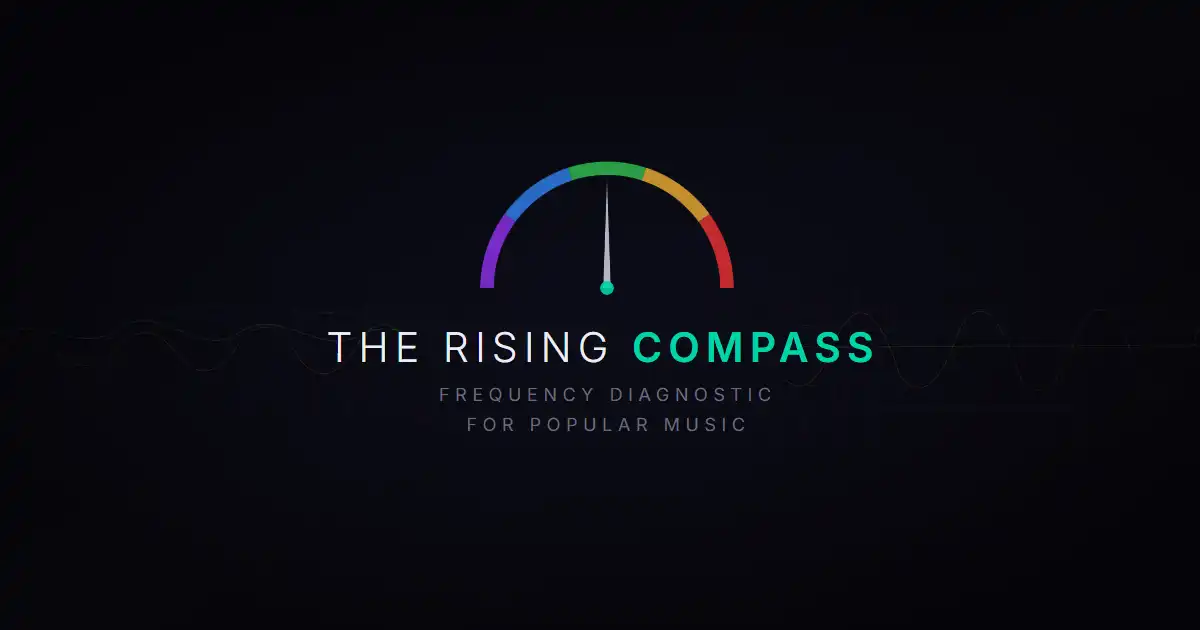
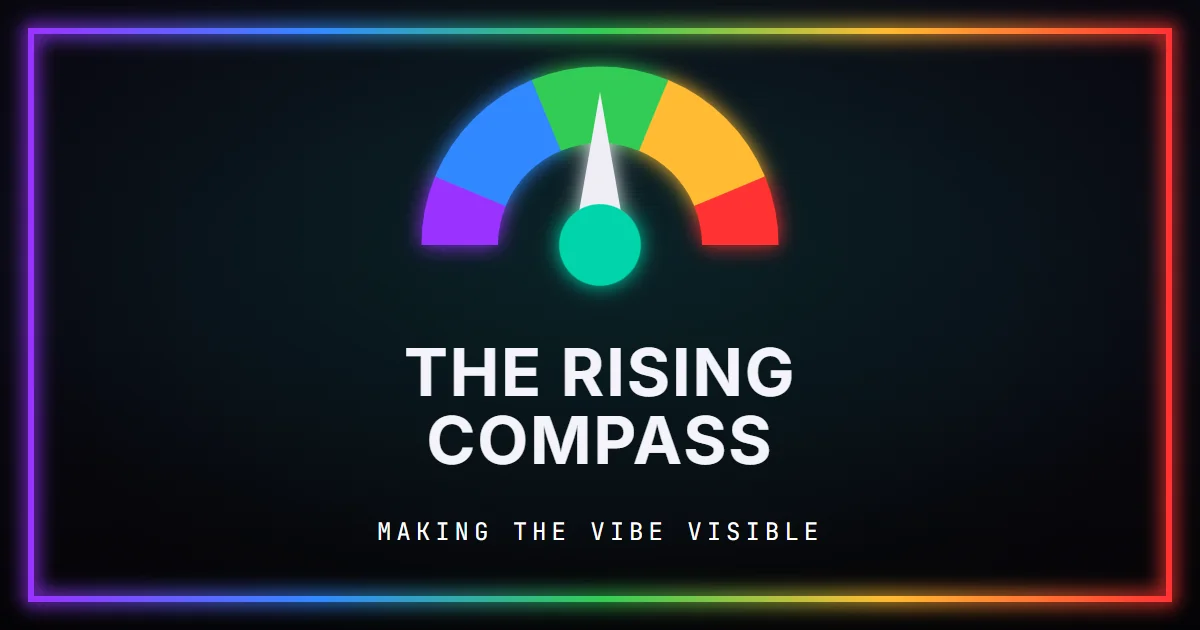
Reproportion compass badges to true tier bands
Update every decorative compass badge to the reproportioned tier bands
(narrow 22.5deg Ascended/Corrupted poles, 45deg middle tiers) so they
match the homepage dial and backend CHARGE_TIERS:

- header badge (partials/header.html), re-baked into all pages
- favicon.svg + raster favicons (favicon-48/192.png)
- song "not found" mark, lyrical-charger result badges, sitemap XSLT badge
- regenerate the OG share image: og-image.svg arcs + escape the
  Google-Fonts @import ampersands (invalid XML); rebuild
  rising-compass-og-image_web.webp

Proportions only -- colors, stroke width, viewBox, and needle unchanged.

diff --git a/frontend/songs/song.html b/frontend/songs/song.html
@@ -395,11 +395,11 @@
   <a href="/" class="rc-back-link" aria-label="Back to The Rising Compass">
     <svg width="20" height="20" viewBox="0 0 32 32" aria-hidden="true">
       <rect width="32" height="32" rx="6" fill="#0a0a14"/>
-      <path d="M 5,20 A 11,11 0 0,1 7.6,13.1" fill="none" stroke="#9933ff" stroke-width="6" stroke-linecap="butt"/>
-      <path d="M 7.6,13.1 A 11,11 0 0,1 12.6,9.6" fill="none" stroke="#3388ff" stroke-width="6" stroke-linecap="butt"/>
-      <path d="M 12.6,9.6 A 11,11 0 0,1 19.4,9.6" fill="none" stroke="#33cc55" stroke-width="6" stroke-linecap="butt"/>
-      <path d="M 19.4,9.6 A 11,11 0 0,1 24.4,13.1" fill="none" stroke="#ffbb33" stroke-width="6" stroke-linecap="butt"/>
-      <path d="M 24.4,13.1 A 11,11 0 0,1 27,20" fill="none" stroke="#ff3333" stroke-width="6" stroke-linecap="butt"/>
+      <path d="M 5,20 A 11,11 0 0,1 5.84,15.79" fill="none" stroke="#9933ff" stroke-width="6" stroke-linecap="butt"/>
+      <path d="M 5.84,15.79 A 11,11 0 0,1 11.79,9.84" fill="none" stroke="#3388ff" stroke-width="6" stroke-linecap="butt"/>
+      <path d="M 11.79,9.84 A 11,11 0 0,1 20.21,9.84" fill="none" stroke="#33cc55" stroke-width="6" stroke-linecap="butt"/>
+      <path d="M 20.21,9.84 A 11,11 0 0,1 26.16,15.79" fill="none" stroke="#ffbb33" stroke-width="6" stroke-linecap="butt"/>
+      <path d="M 26.16,15.79 A 11,11 0 0,1 27,20" fill="none" stroke="#ff3333" stroke-width="6" stroke-linecap="butt"/>
       <polygon points="16,10 14.2,20 17.8,20" fill="#eeeef4"/>
       <circle cx="16" cy="20" r="3" fill="#00d4aa"/>
     </svg>
@@ -685,11 +685,11 @@
     <div id="not-found" class="song-notfound" hidden>
       <svg class="song-notfound-mark" viewBox="0 0 32 32" aria-hidden="true">
         <rect width="32" height="32" rx="6" fill="#12121e"/>
-        <path d="M 5,20 A 11,11 0 0,1 7.6,13.1" fill="none" stroke="#3a3a55" stroke-width="6" stroke-linecap="butt"/>
-        <path d="M 7.6,13.1 A 11,11 0 0,1 12.6,9.6" fill="none" stroke="#3a3a55" stroke-width="6" stroke-linecap="butt"/>
-        <path d="M 12.6,9.6 A 11,11 0 0,1 19.4,9.6" fill="none" stroke="#3a3a55" stroke-width="6" stroke-linecap="butt"/>
-        <path d="M 19.4,9.6 A 11,11 0 0,1 24.4,13.1" fill="none" stroke="#3a3a55" stroke-width="6" stroke-linecap="butt"/>
-        <path d="M 24.4,13.1 A 11,11 0 0,1 27,20" fill="none" stroke="#3a3a55" stroke-width="6" stroke-linecap="butt"/>
+        <path d="M 5,20 A 11,11 0 0,1 5.84,15.79" fill="none" stroke="#3a3a55" stroke-width="6" stroke-linecap="butt"/>
+        <path d="M 5.84,15.79 A 11,11 0 0,1 11.79,9.84" fill="none" stroke="#3a3a55" stroke-width="6" stroke-linecap="butt"/>
+        <path d="M 11.79,9.84 A 11,11 0 0,1 20.21,9.84" fill="none" stroke="#3a3a55" stroke-width="6" stroke-linecap="butt"/>
+        <path d="M 20.21,9.84 A 11,11 0 0,1 26.16,15.79" fill="none" stroke="#3a3a55" stroke-width="6" stroke-linecap="butt"/>
+        <path d="M 26.16,15.79 A 11,11 0 0,1 27,20" fill="none" stroke="#3a3a55" stroke-width="6" stroke-linecap="butt"/>
         <polygon points="16,21 14.2,11 17.8,11" fill="#646490"/>
         <circle cx="16" cy="20" r="3" fill="#646490"/>
       </svg>

diff --git a/frontend/lyrical-charger/charger.js b/frontend/lyrical-charger/charger.js
@@ -1119,11 +1119,11 @@ function renderResults(data) {
     <span class="result-compass-badge" aria-hidden="true">
       <svg viewBox="0 0 32 32" width="48" height="48">
         <rect width="32" height="32" rx="6" fill="#0a0a14"/>
-        <path d="M 5,20 A 11,11 0 0,1 7.6,13.1" fill="none" stroke="#9933ff" stroke-width="6" stroke-linecap="butt"/>
-        <path d="M 7.6,13.1 A 11,11 0 0,1 12.6,9.6" fill="none" stroke="#3388ff" stroke-width="6" stroke-linecap="butt"/>
-        <path d="M 12.6,9.6 A 11,11 0 0,1 19.4,9.6" fill="none" stroke="#33cc55" stroke-width="6" stroke-linecap="butt"/>
-        <path d="M 19.4,9.6 A 11,11 0 0,1 24.4,13.1" fill="none" stroke="#ffbb33" stroke-width="6" stroke-linecap="butt"/>
-        <path d="M 24.4,13.1 A 11,11 0 0,1 27,20" fill="none" stroke="#ff3333" stroke-width="6" stroke-linecap="butt"/>
+        <path d="M 5,20 A 11,11 0 0,1 5.84,15.79" fill="none" stroke="#9933ff" stroke-width="6" stroke-linecap="butt"/>
+        <path d="M 5.84,15.79 A 11,11 0 0,1 11.79,9.84" fill="none" stroke="#3388ff" stroke-width="6" stroke-linecap="butt"/>
+        <path d="M 11.79,9.84 A 11,11 0 0,1 20.21,9.84" fill="none" stroke="#33cc55" stroke-width="6" stroke-linecap="butt"/>
+        <path d="M 20.21,9.84 A 11,11 0 0,1 26.16,15.79" fill="none" stroke="#ffbb33" stroke-width="6" stroke-linecap="butt"/>
+        <path d="M 26.16,15.79 A 11,11 0 0,1 27,20" fill="none" stroke="#ff3333" stroke-width="6" stroke-linecap="butt"/>
         <polygon points="16,10 14.2,20 17.8,20" fill="#eeeef4"/>
         <circle cx="16" cy="20" r="3" fill="#00d4aa"/>
       </svg>
@@ -1428,11 +1428,11 @@ function hideError() {
   const COMPASS_BADGE_SVG = `
     <svg viewBox="0 0 32 32" width="48" height="48">
       <rect width="32" height="32" rx="6" fill="#0a0a14"/>
-      <path d="M 5,20 A 11,11 0 0,1 7.6,13.1" fill="none" stroke="#9933ff" stroke-width="6" stroke-linecap="butt"/>
-      <path d="M 7.6,13.1 A 11,11 0 0,1 12.6,9.6" fill="none" stroke="#3388ff" stroke-width="6" stroke-linecap="butt"/>
-      <path d="M 12.6,9.6 A 11,11 0 0,1 19.4,9.6" fill="none" stroke="#33cc55" stroke-width="6" stroke-linecap="butt"/>
-      <path d="M 19.4,9.6 A 11,11 0 0,1 24.4,13.1" fill="none" stroke="#ffbb33" stroke-width="6" stroke-linecap="butt"/>
-      <path d="M 24.4,13.1 A 11,11 0 0,1 27,20" fill="none" stroke="#ff3333" stroke-width="6" stroke-linecap="butt"/>
+      <path d="M 5,20 A 11,11 0 0,1 5.84,15.79" fill="none" stroke="#9933ff" stroke-width="6" stroke-linecap="butt"/>
+      <path d="M 5.84,15.79 A 11,11 0 0,1 11.79,9.84" fill="none" stroke="#3388ff" stroke-width="6" stroke-linecap="butt"/>
+      <path d="M 11.79,9.84 A 11,11 0 0,1 20.21,9.84" fill="none" stroke="#33cc55" stroke-width="6" stroke-linecap="butt"/>
+      <path d="M 20.21,9.84 A 11,11 0 0,1 26.16,15.79" fill="none" stroke="#ffbb33" stroke-width="6" stroke-linecap="butt"/>
+      <path d="M 26.16,15.79 A 11,11 0 0,1 27,20" fill="none" stroke="#ff3333" stroke-width="6" stroke-linecap="butt"/>
       <polygon points="16,10 14.2,20 17.8,20" fill="#eeeef4"/>
       <circle cx="16" cy="20" r="3" fill="#00d4aa"/>
     </svg>`;

diff --git a/frontend/amendments/index.html b/frontend/amendments/index.html
@@ -107,11 +107,11 @@
   <a href="/" class="rc-back-link" aria-label="Back to The Rising Compass">
     <svg width="20" height="20" viewBox="0 0 32 32" aria-hidden="true">
       <rect width="32" height="32" rx="6" fill="#0a0a14"/>
-      <path d="M 5,20 A 11,11 0 0,1 7.6,13.1" fill="none" stroke="#9933ff" stroke-width="6" stroke-linecap="butt"/>
-      <path d="M 7.6,13.1 A 11,11 0 0,1 12.6,9.6" fill="none" stroke="#3388ff" stroke-width="6" stroke-linecap="butt"/>
-      <path d="M 12.6,9.6 A 11,11 0 0,1 19.4,9.6" fill="none" stroke="#33cc55" stroke-width="6" stroke-linecap="butt"/>
-      <path d="M 19.4,9.6 A 11,11 0 0,1 24.4,13.1" fill="none" stroke="#ffbb33" stroke-width="6" stroke-linecap="butt"/>
-      <path d="M 24.4,13.1 A 11,11 0 0,1 27,20" fill="none" stroke="#ff3333" stroke-width="6" stroke-linecap="butt"/>
+      <path d="M 5,20 A 11,11 0 0,1 5.84,15.79" fill="none" stroke="#9933ff" stroke-width="6" stroke-linecap="butt"/>
+      <path d="M 5.84,15.79 A 11,11 0 0,1 11.79,9.84" fill="none" stroke="#3388ff" stroke-width="6" stroke-linecap="butt"/>
+      <path d="M 11.79,9.84 A 11,11 0 0,1 20.21,9.84" fill="none" stroke="#33cc55" stroke-width="6" stroke-linecap="butt"/>
+      <path d="M 20.21,9.84 A 11,11 0 0,1 26.16,15.79" fill="none" stroke="#ffbb33" stroke-width="6" stroke-linecap="butt"/>
+      <path d="M 26.16,15.79 A 11,11 0 0,1 27,20" fill="none" stroke="#ff3333" stroke-width="6" stroke-linecap="butt"/>
       <polygon points="16,10 14.2,20 17.8,20" fill="#eeeef4"/>
       <circle cx="16" cy="20" r="3" fill="#00d4aa"/>
     </svg>

diff --git a/frontend/artist-claim.html b/frontend/artist-claim.html
@@ -250,11 +250,11 @@
   <a href="/" class="rc-back-link" aria-label="Back to The Rising Compass">
     <svg width="20" height="20" viewBox="0 0 32 32" aria-hidden="true">
       <rect width="32" height="32" rx="6" fill="#0a0a14"/>
-      <path d="M 5,20 A 11,11 0 0,1 7.6,13.1" fill="none" stroke="#9933ff" stroke-width="6" stroke-linecap="butt"/>
-      <path d="M 7.6,13.1 A 11,11 0 0,1 12.6,9.6" fill="none" stroke="#3388ff" stroke-width="6" stroke-linecap="butt"/>
-      <path d="M 12.6,9.6 A 11,11 0 0,1 19.4,9.6" fill="none" stroke="#33cc55" stroke-width="6" stroke-linecap="butt"/>
-      <path d="M 19.4,9.6 A 11,11 0 0,1 24.4,13.1" fill="none" stroke="#ffbb33" stroke-width="6" stroke-linecap="butt"/>
-      <path d="M 24.4,13.1 A 11,11 0 0,1 27,20" fill="none" stroke="#ff3333" stroke-width="6" stroke-linecap="butt"/>
+      <path d="M 5,20 A 11,11 0 0,1 5.84,15.79" fill="none" stroke="#9933ff" stroke-width="6" stroke-linecap="butt"/>
+      <path d="M 5.84,15.79 A 11,11 0 0,1 11.79,9.84" fill="none" stroke="#3388ff" stroke-width="6" stroke-linecap="butt"/>
+      <path d="M 11.79,9.84 A 11,11 0 0,1 20.21,9.84" fill="none" stroke="#33cc55" stroke-width="6" stroke-linecap="butt"/>
+      <path d="M 20.21,9.84 A 11,11 0 0,1 26.16,15.79" fill="none" stroke="#ffbb33" stroke-width="6" stroke-linecap="butt"/>
+      <path d="M 26.16,15.79 A 11,11 0 0,1 27,20" fill="none" stroke="#ff3333" stroke-width="6" stroke-linecap="butt"/>
       <polygon points="16,10 14.2,20 17.8,20" fill="#eeeef4"/>
       <circle cx="16" cy="20" r="3" fill="#00d4aa"/>
     </svg>

diff --git a/frontend/ether-art-chart/index.html b/frontend/ether-art-chart/index.html
@@ -107,11 +107,11 @@
   <a href="/" class="rc-back-link" aria-label="Back to The Rising Compass">
     <svg width="20" height="20" viewBox="0 0 32 32" aria-hidden="true">
       <rect width="32" height="32" rx="6" fill="#0a0a14"/>
-      <path d="M 5,20 A 11,11 0 0,1 7.6,13.1" fill="none" stroke="#9933ff" stroke-width="6" stroke-linecap="butt"/>
-      <path d="M 7.6,13.1 A 11,11 0 0,1 12.6,9.6" fill="none" stroke="#3388ff" stroke-width="6" stroke-linecap="butt"/>
-      <path d="M 12.6,9.6 A 11,11 0 0,1 19.4,9.6" fill="none" stroke="#33cc55" stroke-width="6" stroke-linecap="butt"/>
-      <path d="M 19.4,9.6 A 11,11 0 0,1 24.4,13.1" fill="none" stroke="#ffbb33" stroke-width="6" stroke-linecap="butt"/>
-      <path d="M 24.4,13.1 A 11,11 0 0,1 27,20" fill="none" stroke="#ff3333" stroke-width="6" stroke-linecap="butt"/>
+      <path d="M 5,20 A 11,11 0 0,1 5.84,15.79" fill="none" stroke="#9933ff" stroke-width="6" stroke-linecap="butt"/>
+      <path d="M 5.84,15.79 A 11,11 0 0,1 11.79,9.84" fill="none" stroke="#3388ff" stroke-width="6" stroke-linecap="butt"/>
+      <path d="M 11.79,9.84 A 11,11 0 0,1 20.21,9.84" fill="none" stroke="#33cc55" stroke-width="6" stroke-linecap="butt"/>
+      <path d="M 20.21,9.84 A 11,11 0 0,1 26.16,15.79" fill="none" stroke="#ffbb33" stroke-width="6" stroke-linecap="butt"/>
+      <path d="M 26.16,15.79 A 11,11 0 0,1 27,20" fill="none" stroke="#ff3333" stroke-width="6" stroke-linecap="butt"/>
       <polygon points="16,10 14.2,20 17.8,20" fill="#eeeef4"/>
       <circle cx="16" cy="20" r="3" fill="#00d4aa"/>
     </svg>

diff --git a/frontend/fair-use.html b/frontend/fair-use.html
@@ -138,11 +138,11 @@
   <a href="/" class="rc-back-link" aria-label="Back to The Rising Compass">
     <svg width="20" height="20" viewBox="0 0 32 32" aria-hidden="true">
       <rect width="32" height="32" rx="6" fill="#0a0a14"/>
-      <path d="M 5,20 A 11,11 0 0,1 7.6,13.1" fill="none" stroke="#9933ff" stroke-width="6" stroke-linecap="butt"/>
-      <path d="M 7.6,13.1 A 11,11 0 0,1 12.6,9.6" fill="none" stroke="#3388ff" stroke-width="6" stroke-linecap="butt"/>
-      <path d="M 12.6,9.6 A 11,11 0 0,1 19.4,9.6" fill="none" stroke="#33cc55" stroke-width="6" stroke-linecap="butt"/>
-      <path d="M 19.4,9.6 A 11,11 0 0,1 24.4,13.1" fill="none" stroke="#ffbb33" stroke-width="6" stroke-linecap="butt"/>
-      <path d="M 24.4,13.1 A 11,11 0 0,1 27,20" fill="none" stroke="#ff3333" stroke-width="6" stroke-linecap="butt"/>
+      <path d="M 5,20 A 11,11 0 0,1 5.84,15.79" fill="none" stroke="#9933ff" stroke-width="6" stroke-linecap="butt"/>
+      <path d="M 5.84,15.79 A 11,11 0 0,1 11.79,9.84" fill="none" stroke="#3388ff" stroke-width="6" stroke-linecap="butt"/>
+      <path d="M 11.79,9.84 A 11,11 0 0,1 20.21,9.84" fill="none" stroke="#33cc55" stroke-width="6" stroke-linecap="butt"/>
+      <path d="M 20.21,9.84 A 11,11 0 0,1 26.16,15.79" fill="none" stroke="#ffbb33" stroke-width="6" stroke-linecap="butt"/>
+      <path d="M 26.16,15.79 A 11,11 0 0,1 27,20" fill="none" stroke="#ff3333" stroke-width="6" stroke-linecap="butt"/>
       <polygon points="16,10 14.2,20 17.8,20" fill="#eeeef4"/>
       <circle cx="16" cy="20" r="3" fill="#00d4aa"/>
     </svg>

diff --git a/frontend/index.html b/frontend/index.html
@@ -300,11 +300,11 @@
   <a href="/" class="rc-back-link" aria-label="Back to The Rising Compass">
     <svg width="20" height="20" viewBox="0 0 32 32" aria-hidden="true">
       <rect width="32" height="32" rx="6" fill="#0a0a14"/>
-      <path d="M 5,20 A 11,11 0 0,1 7.6,13.1" fill="none" stroke="#9933ff" stroke-width="6" stroke-linecap="butt"/>
-      <path d="M 7.6,13.1 A 11,11 0 0,1 12.6,9.6" fill="none" stroke="#3388ff" stroke-width="6" stroke-linecap="butt"/>
-      <path d="M 12.6,9.6 A 11,11 0 0,1 19.4,9.6" fill="none" stroke="#33cc55" stroke-width="6" stroke-linecap="butt"/>
-      <path d="M 19.4,9.6 A 11,11 0 0,1 24.4,13.1" fill="none" stroke="#ffbb33" stroke-width="6" stroke-linecap="butt"/>
-      <path d="M 24.4,13.1 A 11,11 0 0,1 27,20" fill="none" stroke="#ff3333" stroke-width="6" stroke-linecap="butt"/>
+      <path d="M 5,20 A 11,11 0 0,1 5.84,15.79" fill="none" stroke="#9933ff" stroke-width="6" stroke-linecap="butt"/>
+      <path d="M 5.84,15.79 A 11,11 0 0,1 11.79,9.84" fill="none" stroke="#3388ff" stroke-width="6" stroke-linecap="butt"/>
+      <path d="M 11.79,9.84 A 11,11 0 0,1 20.21,9.84" fill="none" stroke="#33cc55" stroke-width="6" stroke-linecap="butt"/>
+      <path d="M 20.21,9.84 A 11,11 0 0,1 26.16,15.79" fill="none" stroke="#ffbb33" stroke-width="6" stroke-linecap="butt"/>
+      <path d="M 26.16,15.79 A 11,11 0 0,1 27,20" fill="none" stroke="#ff3333" stroke-width="6" stroke-linecap="butt"/>
       <polygon points="16,10 14.2,20 17.8,20" fill="#eeeef4"/>
       <circle cx="16" cy="20" r="3" fill="#00d4aa"/>
     </svg>

diff --git a/frontend/inquiry.html b/frontend/inquiry.html
@@ -153,11 +153,11 @@
   <a href="/" class="rc-back-link" aria-label="Back to The Rising Compass">
     <svg width="20" height="20" viewBox="0 0 32 32" aria-hidden="true">
       <rect width="32" height="32" rx="6" fill="#0a0a14"/>
-      <path d="M 5,20 A 11,11 0 0,1 7.6,13.1" fill="none" stroke="#9933ff" stroke-width="6" stroke-linecap="butt"/>
-      <path d="M 7.6,13.1 A 11,11 0 0,1 12.6,9.6" fill="none" stroke="#3388ff" stroke-width="6" stroke-linecap="butt"/>
-      <path d="M 12.6,9.6 A 11,11 0 0,1 19.4,9.6" fill="none" stroke="#33cc55" stroke-width="6" stroke-linecap="butt"/>
-      <path d="M 19.4,9.6 A 11,11 0 0,1 24.4,13.1" fill="none" stroke="#ffbb33" stroke-width="6" stroke-linecap="butt"/>
-      <path d="M 24.4,13.1 A 11,11 0 0,1 27,20" fill="none" stroke="#ff3333" stroke-width="6" stroke-linecap="butt"/>
+      <path d="M 5,20 A 11,11 0 0,1 5.84,15.79" fill="none" stroke="#9933ff" stroke-width="6" stroke-linecap="butt"/>
+      <path d="M 5.84,15.79 A 11,11 0 0,1 11.79,9.84" fill="none" stroke="#3388ff" stroke-width="6" stroke-linecap="butt"/>
+      <path d="M 11.79,9.84 A 11,11 0 0,1 20.21,9.84" fill="none" stroke="#33cc55" stroke-width="6" stroke-linecap="butt"/>
+      <path d="M 20.21,9.84 A 11,11 0 0,1 26.16,15.79" fill="none" stroke="#ffbb33" stroke-width="6" stroke-linecap="butt"/>
+      <path d="M 26.16,15.79 A 11,11 0 0,1 27,20" fill="none" stroke="#ff3333" stroke-width="6" stroke-linecap="butt"/>
       <polygon points="16,10 14.2,20 17.8,20" fill="#eeeef4"/>
       <circle cx="16" cy="20" r="3" fill="#00d4aa"/>
     </svg>

diff --git a/frontend/library/index.html b/frontend/library/index.html
@@ -105,11 +105,11 @@
   <a href="/" class="rc-back-link" aria-label="Back to The Rising Compass">
     <svg width="20" height="20" viewBox="0 0 32 32" aria-hidden="true">
       <rect width="32" height="32" rx="6" fill="#0a0a14"/>
-      <path d="M 5,20 A 11,11 0 0,1 7.6,13.1" fill="none" stroke="#9933ff" stroke-width="6" stroke-linecap="butt"/>
-      <path d="M 7.6,13.1 A 11,11 0 0,1 12.6,9.6" fill="none" stroke="#3388ff" stroke-width="6" stroke-linecap="butt"/>
-      <path d="M 12.6,9.6 A 11,11 0 0,1 19.4,9.6" fill="none" stroke="#33cc55" stroke-width="6" stroke-linecap="butt"/>
-      <path d="M 19.4,9.6 A 11,11 0 0,1 24.4,13.1" fill="none" stroke="#ffbb33" stroke-width="6" stroke-linecap="butt"/>
-      <path d="M 24.4,13.1 A 11,11 0 0,1 27,20" fill="none" stroke="#ff3333" stroke-width="6" stroke-linecap="butt"/>
+      <path d="M 5,20 A 11,11 0 0,1 5.84,15.79" fill="none" stroke="#9933ff" stroke-width="6" stroke-linecap="butt"/>
+      <path d="M 5.84,15.79 A 11,11 0 0,1 11.79,9.84" fill="none" stroke="#3388ff" stroke-width="6" stroke-linecap="butt"/>
+      <path d="M 11.79,9.84 A 11,11 0 0,1 20.21,9.84" fill="none" stroke="#33cc55" stroke-width="6" stroke-linecap="butt"/>
+      <path d="M 20.21,9.84 A 11,11 0 0,1 26.16,15.79" fill="none" stroke="#ffbb33" stroke-width="6" stroke-linecap="butt"/>
+      <path d="M 26.16,15.79 A 11,11 0 0,1 27,20" fill="none" stroke="#ff3333" stroke-width="6" stroke-linecap="butt"/>
       <polygon points="16,10 14.2,20 17.8,20" fill="#eeeef4"/>
       <circle cx="16" cy="20" r="3" fill="#00d4aa"/>
     </svg>

diff --git a/frontend/lyrical-charger/index.html b/frontend/lyrical-charger/index.html
@@ -103,11 +103,11 @@
   <a href="/" class="rc-back-link" aria-label="Back to The Rising Compass">
     <svg width="20" height="20" viewBox="0 0 32 32" aria-hidden="true">
       <rect width="32" height="32" rx="6" fill="#0a0a14"/>
-      <path d="M 5,20 A 11,11 0 0,1 7.6,13.1" fill="none" stroke="#9933ff" stroke-width="6" stroke-linecap="butt"/>
-      <path d="M 7.6,13.1 A 11,11 0 0,1 12.6,9.6" fill="none" stroke="#3388ff" stroke-width="6" stroke-linecap="butt"/>
-      <path d="M 12.6,9.6 A 11,11 0 0,1 19.4,9.6" fill="none" stroke="#33cc55" stroke-width="6" stroke-linecap="butt"/>
-      <path d="M 19.4,9.6 A 11,11 0 0,1 24.4,13.1" fill="none" stroke="#ffbb33" stroke-width="6" stroke-linecap="butt"/>
-      <path d="M 24.4,13.1 A 11,11 0 0,1 27,20" fill="none" stroke="#ff3333" stroke-width="6" stroke-linecap="butt"/>
+      <path d="M 5,20 A 11,11 0 0,1 5.84,15.79" fill="none" stroke="#9933ff" stroke-width="6" stroke-linecap="butt"/>
+      <path d="M 5.84,15.79 A 11,11 0 0,1 11.79,9.84" fill="none" stroke="#3388ff" stroke-width="6" stroke-linecap="butt"/>
+      <path d="M 11.79,9.84 A 11,11 0 0,1 20.21,9.84" fill="none" stroke="#33cc55" stroke-width="6" stroke-linecap="butt"/>
+      <path d="M 20.21,9.84 A 11,11 0 0,1 26.16,15.79" fill="none" stroke="#ffbb33" stroke-width="6" stroke-linecap="butt"/>
+      <path d="M 26.16,15.79 A 11,11 0 0,1 27,20" fill="none" stroke="#ff3333" stroke-width="6" stroke-linecap="butt"/>
       <polygon points="16,10 14.2,20 17.8,20" fill="#eeeef4"/>
       <circle cx="16" cy="20" r="3" fill="#00d4aa"/>
     </svg>

diff --git a/frontend/methodology/index.html b/frontend/methodology/index.html
@@ -107,11 +107,11 @@
   <a href="/" class="rc-back-link" aria-label="Back to The Rising Compass">
     <svg width="20" height="20" viewBox="0 0 32 32" aria-hidden="true">
       <rect width="32" height="32" rx="6" fill="#0a0a14"/>
-      <path d="M 5,20 A 11,11 0 0,1 7.6,13.1" fill="none" stroke="#9933ff" stroke-width="6" stroke-linecap="butt"/>
-      <path d="M 7.6,13.1 A 11,11 0 0,1 12.6,9.6" fill="none" stroke="#3388ff" stroke-width="6" stroke-linecap="butt"/>
-      <path d="M 12.6,9.6 A 11,11 0 0,1 19.4,9.6" fill="none" stroke="#33cc55" stroke-width="6" stroke-linecap="butt"/>
-      <path d="M 19.4,9.6 A 11,11 0 0,1 24.4,13.1" fill="none" stroke="#ffbb33" stroke-width="6" stroke-linecap="butt"/>
-      <path d="M 24.4,13.1 A 11,11 0 0,1 27,20" fill="none" stroke="#ff3333" stroke-width="6" stroke-linecap="butt"/>
+      <path d="M 5,20 A 11,11 0 0,1 5.84,15.79" fill="none" stroke="#9933ff" stroke-width="6" stroke-linecap="butt"/>
+      <path d="M 5.84,15.79 A 11,11 0 0,1 11.79,9.84" fill="none" stroke="#3388ff" stroke-width="6" stroke-linecap="butt"/>
+      <path d="M 11.79,9.84 A 11,11 0 0,1 20.21,9.84" fill="none" stroke="#33cc55" stroke-width="6" stroke-linecap="butt"/>
+      <path d="M 20.21,9.84 A 11,11 0 0,1 26.16,15.79" fill="none" stroke="#ffbb33" stroke-width="6" stroke-linecap="butt"/>
+      <path d="M 26.16,15.79 A 11,11 0 0,1 27,20" fill="none" stroke="#ff3333" stroke-width="6" stroke-linecap="butt"/>
       <polygon points="16,10 14.2,20 17.8,20" fill="#eeeef4"/>
       <circle cx="16" cy="20" r="3" fill="#00d4aa"/>
     </svg>

diff --git a/frontend/misread-submission.html b/frontend/misread-submission.html
@@ -400,11 +400,11 @@
   <a href="/" class="rc-back-link" aria-label="Back to The Rising Compass">
     <svg width="20" height="20" viewBox="0 0 32 32" aria-hidden="true">
       <rect width="32" height="32" rx="6" fill="#0a0a14"/>
-      <path d="M 5,20 A 11,11 0 0,1 7.6,13.1" fill="none" stroke="#9933ff" stroke-width="6" stroke-linecap="butt"/>
-      <path d="M 7.6,13.1 A 11,11 0 0,1 12.6,9.6" fill="none" stroke="#3388ff" stroke-width="6" stroke-linecap="butt"/>
-      <path d="M 12.6,9.6 A 11,11 0 0,1 19.4,9.6" fill="none" stroke="#33cc55" stroke-width="6" stroke-linecap="butt"/>
-      <path d="M 19.4,9.6 A 11,11 0 0,1 24.4,13.1" fill="none" stroke="#ffbb33" stroke-width="6" stroke-linecap="butt"/>
-      <path d="M 24.4,13.1 A 11,11 0 0,1 27,20" fill="none" stroke="#ff3333" stroke-width="6" stroke-linecap="butt"/>
+      <path d="M 5,20 A 11,11 0 0,1 5.84,15.79" fill="none" stroke="#9933ff" stroke-width="6" stroke-linecap="butt"/>
+      <path d="M 5.84,15.79 A 11,11 0 0,1 11.79,9.84" fill="none" stroke="#3388ff" stroke-width="6" stroke-linecap="butt"/>
+      <path d="M 11.79,9.84 A 11,11 0 0,1 20.21,9.84" fill="none" stroke="#33cc55" stroke-width="6" stroke-linecap="butt"/>
+      <path d="M 20.21,9.84 A 11,11 0 0,1 26.16,15.79" fill="none" stroke="#ffbb33" stroke-width="6" stroke-linecap="butt"/>
+      <path d="M 26.16,15.79 A 11,11 0 0,1 27,20" fill="none" stroke="#ff3333" stroke-width="6" stroke-linecap="butt"/>
       <polygon points="16,10 14.2,20 17.8,20" fill="#eeeef4"/>
       <circle cx="16" cy="20" r="3" fill="#00d4aa"/>
     </svg>
